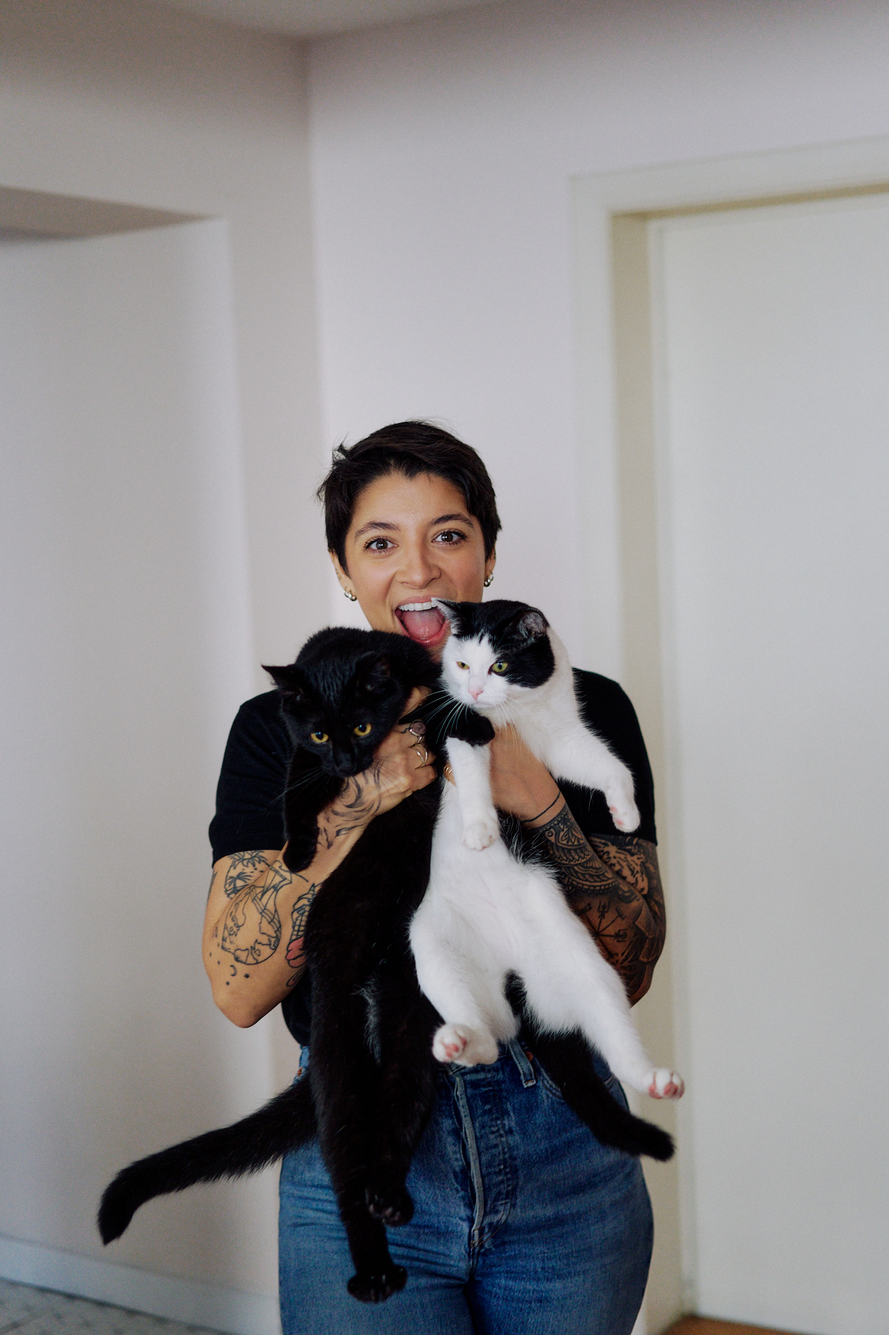
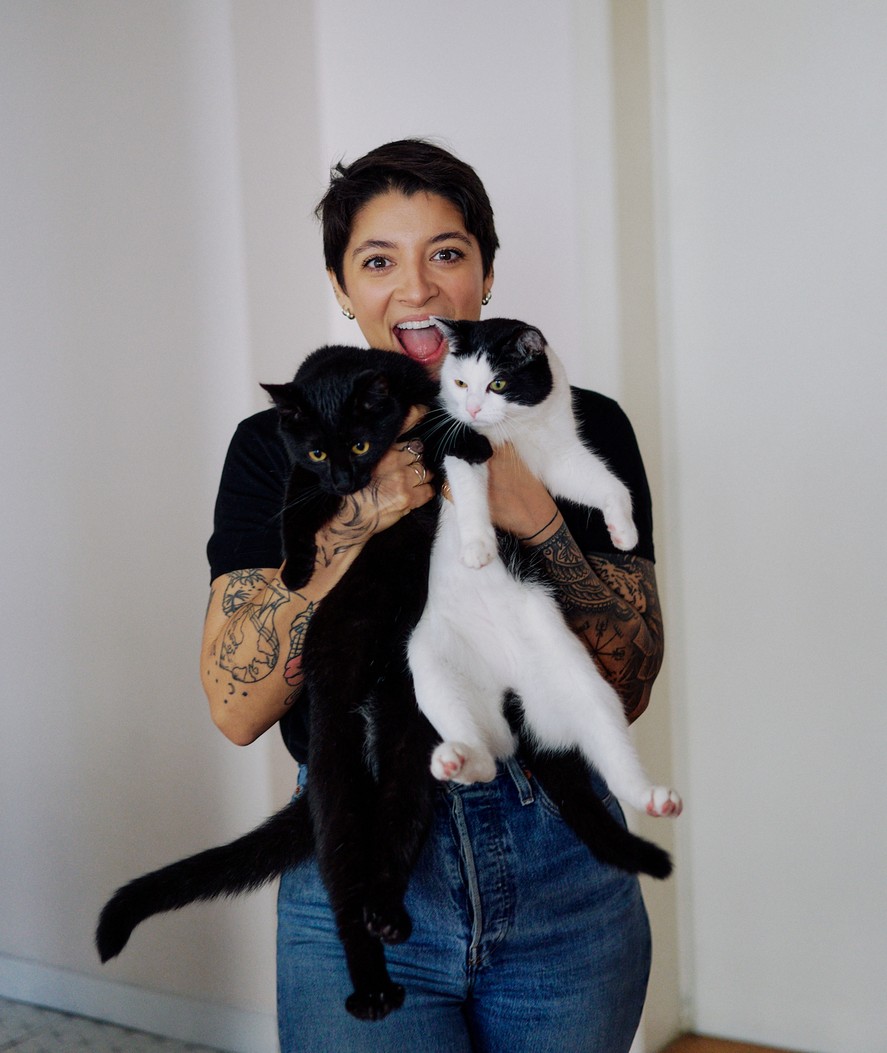
content + style about page

diff --git a/about.html b/about.html
@@ -28,37 +28,87 @@
     <title>About Nour</title>
   </head>
   <body>
-    <nav class="navbar navbar-expand-lg fixed-top">
-      <a class="navbar-brand logo" href="#">NG</a>
-      <button
-        class="navbar-toggler"
-        type="button"
-        data-toggle="collapse"
-        data-target="#navbarSupportedContent"
-        aria-controls="navbarSupportedContent"
-        aria-expanded="false"
-        aria-label="Toggle navigation"
-      >
-        <span class="navbar-toggler-icon"></span>
-      </button>
+    <head>
+      <nav class="navbar navbar-expand-lg">
+        <a class="navbar-brand logo" href="#">NG</a>
+        <button
+          class="navbar-toggler custom-toggler"
+          type="button"
+          data-toggle="collapse"
+          data-target="#navbarSupportedContent"
+          aria-controls="navbarSupportedContent"
+          aria-expanded="false"
+          aria-label="Toggle navigation"
+        >
+          <span class="navbar-toggler-icon"></span>
+        </button>
 
-      <div class="collapse navbar-collapse" id="navbarSupportedContent">
-        <ul class="navbar-nav ml-auto mr-3">
-          <li class="nav-item">
-            <a class="nav-link" href="/">Home</a>
-          </li>
-          <li class="nav-item active">
-            <a class="nav-link" href="/about.html">About</a>
-          </li>
-          <li class="nav-item">
-            <a class="nav-link" href="/projects.html">Projects</a>
-          </li>
-          <li class="nav-item">
-            <a class="nav-link" href="/contact.html">Contact</a>
-          </li>
-        </ul>
+        <div class="collapse navbar-collapse" id="navbarSupportedContent">
+          <ul class="navbar-nav ml-auto mr-3">
+            <li class="nav-item">
+              <a class="nav-link" href="/">Home</a>
+            </li>
+            <li class="nav-item active">
+              <a class="nav-link" href="/about.html">About</a>
+            </li>
+            <li class="nav-item">
+              <a class="nav-link" href="/projects.html">Projects</a>
+            </li>
+            <li class="nav-item">
+              <a class="nav-link" href="/contact.html">Contact</a>
+            </li>
+          </ul>
+        </div>
+      </nav>
+    </head>
+
+    <main>
+      <div class="container-fluid">
+        <div class="row align-items-center about-section">
+          <div class="col-md-6">
+            <img
+              src="/images/nour-cats.jpg"
+              alt="nour with 2 cats"
+              class="img-fluid rounded-lg shadow-lg"
+            />
+          </div>
+          <div class="col-md-6">
+            <h1 class="about-title">
+              Hi, I'm <span class="description-highlights">Nour</span>
+            </h1>
+            <p class="description about-description">
+              I'm a
+              <span class="description-highlights"
+                >creative front-end developer</span
+              >
+              based in Brussels, Belgium.<br /><br />
+              I come from a very
+              <span class="description-highlights">diverse background</span>,
+              both in terms of professional and personal experiences, which has
+              given me a very
+              <span class="description-highlights"
+                >wide spectrum of interests and skills.</span
+              ><br /><br />With a background in
+              <span class="description-highlights">content creatio</span>n and
+              <span class="description-highlights">visual design</span>, I'm all
+              about
+              <span class="description-highlights"
+                >mixing creativity with tech know-how</span
+              >. I love building websites and apps that not only
+              <span class="description-highlights">look awesome</span> but also
+              <span class="description-highlights">work like a charm</span>. My
+              goal? To use my skills to
+              <span class="description-highlights"
+                >make the internet a better place</span
+              >
+              for everyone. <br /><br />Let's team up and create some
+              <span class="description-highlights">digital magic</span>
+              together!
+            </p>
+          </div>
+        </div>
       </div>
-    </nav>
+    </main>
 
     <footer>
       <span class="footer-element">

diff --git a/src/style.css b/src/style.css
@@ -10,7 +10,7 @@ body {
   position: relative;
   width: 100%;
   text-align: center;
-  padding-top: 50px;
+  padding-top: 10px;
   background: radial-gradient(
       50% 50% at 50% 50%,
       rgba(20, 73, 72, 0.7) 0%,
@@ -26,6 +26,7 @@ body {
 nav {
   border-bottom: var(--secondary-color) solid 0.5px;
   margin: 10px 80px 0;
+  margin: 0 auto;
 }
 
 nav li {
@@ -91,6 +92,10 @@ h2 {
   font-size: 40px;
   line-height: 1;
   letter-spacing: 4px;
+}
+
+h1.about-title {
+  font-size: 60px;
 }
 
 .description {
@@ -184,6 +189,11 @@ footer {
   border-color: var(--secondary-color) !important;
 }
 
+.about-section {
+  margin: 40px 0;
+  padding: 0 100px;
+}
+
 @media (max-width: 1600px) {
   .blank-space {
     height: 60px;
@@ -211,6 +221,10 @@ footer {
     font-size: 70px;
   }
 
+  h1.about-title {
+    font-size: 50px;
+  }
+
   h2 {
     font-size: 48px;
   }
@@ -224,6 +238,10 @@ footer {
     text-align: center;
     justify-content: center;
     padding: 0;
+  }
+
+  .about-section {
+    margin-top: 30px;
   }
 
   hr {
@@ -248,8 +266,13 @@ footer {
 
 @media (max-width: 576px) {
   h1 {
-    padding-top: 10px;
+    padding-top: 20px;
     font-size: 50px;
+  }
+
+  h1.about-title {
+    font-size: 30px;
+    margin-top: 20px;
   }
 
   h2 {
@@ -265,6 +288,13 @@ footer {
     text-align: center;
     justify-content: center;
     margin: 0 50px;
+  }
+
+  .about-section {
+    width: 100%;
+    padding-top: 20px;
+    padding-left: 10%;
+    padding-right: 4%;
   }
 
   hr {
